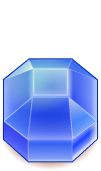
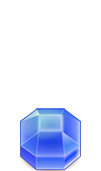
gems resized / small changes on the gui design

diff --git a/src/components/blockly.js b/src/components/blockly.js
@@ -1,4 +1,4 @@
-/* global Blockly */
+/* global Blockly localStorage */
 
 const widget = require('cache-element/widget')
 const html = require('choo/html')
@@ -13,7 +13,7 @@ const prefix = sf`
 `
 
 const blocklyView = widget((update) => {
-  let send, workspace, editorElement
+  let state, send, workspace, editorElement
 
   update(onupdate)
 
@@ -23,7 +23,8 @@ const blocklyView = widget((update) => {
     </div>
   `
 
-  function onupdate (state, prev, _send) {
+  function onupdate (_state, prev, _send) {
+    state = _state
     send = _send
   }
 
@@ -31,6 +32,7 @@ const blocklyView = widget((update) => {
     editorElement = el
     workspace = Blockly.inject(editorElement, { toolbox: toolbox })
 
+    restoreWorkspace(workspace)
     workspace.addChangeListener(updateCode)
   }
 
@@ -38,11 +40,24 @@ const blocklyView = widget((update) => {
     send('updateCode', {
       srcCode: Blockly.JavaScript.workspaceToCode(workspace)
     })
+
+    const xml = Blockly.Xml.workspaceToDom(workspace)
+    const xmlText = Blockly.Xml.domToText(xml)
+    send('updateWorkspace', {
+      workspace: xmlText
+    })
+
+    localStorage.setItem('workspace', xmlText)
   }
 
   function onunload () {
     workspace.removeChangeListener(updateCode)
   }
 })
+
+function restoreWorkspace (workspace) {
+  const xml = Blockly.Xml.textToDom(localStorage.getItem('workspace'))
+  Blockly.Xml.domToWorkspace(xml, workspace)
+}
 
 module.exports = blocklyView

diff --git a/src/components/runtime-controls.js b/src/components/runtime-controls.js
@@ -1,14 +1,35 @@
 const html = require('choo/html')
+const sf = require('sheetify')
+
+const prefix = sf`
+  :host {
+    height: 30px;
+    width: 75px;
+    color: ##404040;
+    background-color: #dddddd;
+    border: none;
+    border-radius: 5%;
+    font-size: 14px;
+    font-family: Helvetica, Arial, Sans-Serif;
+    text-decoration: none;
+    vertical-align: middle;
+  }
+  
+  :host:hover {
+    color: #2b2b2b;
+    background-color: white;
+  }
+`
 
 function runtimeControlsView (state, prev, send) {
   if (state.running) {
     return html`
-      <button disabled>running...</button>
+      <button id="disabled" class=${prefix} disabled>Running...</button>
    `
   }
 
   return html`
-    <button onclick=${() => send('runCode', { })}>run</button>
+    <button id="clickable" class=${prefix} onclick=${() => send('runCode', { })}>► Run</button>
   `
 }
 

diff --git a/lib/toolbox.js b/lib/toolbox.js
@@ -1,16 +1,11 @@
 module.exports = `
   <xml id="toolbox" style="display: none">
-      <category name="Logic">
-        <block type="controls_if"></block>
+      <category name="Logic" colour="120">
         <block type="controls_repeat_ext"></block>
-        <block type="logic_compare"></block>
         <block type="math_number"></block>
-        <block type="math_arithmetic"></block>
-        <block type="text"></block>
-        <block type="text_print"></block>
       </category>
       <sep></sep>
-      <category name="Movement" colour="210">
+      <category name="Movement" colour="240">
         <block type="move"></block>
       </category>
    </xml>

diff --git a/src/reducers.js b/src/reducers.js
@@ -7,14 +7,18 @@ const changeRunningState = ({ running }, state) => {
 }
 
 const updateCode = ({ srcCode }, state) => {
-  console.log('update code')
   return update(state, { srcCode: { $set: srcCode } })
+}
+
+const updateWorkspace = ({ workspace }, state) => {
+  return update(state, {workspace: { $set: workspace }})
 }
 
 module.exports = _.assign({},
   gameApi.actions,
   {
     changeRunningState,
-    updateCode
+    updateCode,
+    updateWorkspace
   }
 )

diff --git a/src/components/main.js b/src/components/main.js
@@ -13,11 +13,11 @@ const mainPrefix = sf`
     }
 
     :host .header-bar {
-      height: 75px;
+      height: 50px;
       display: flex;
       padding: 20px;
       align-items: center;
-      background: #333;
+      background: #404040;
     }
 
     :host .content {
@@ -32,7 +32,7 @@ const contentPrefix = sf`
     }
 
     :host > .divider {
-      background: grey;
+      background: #404040;
       width: 10px;
       height: 100%;
     }

diff --git a/src/model.js b/src/model.js
@@ -45,6 +45,7 @@ const initialState = {
   robot: { x: 0, y: 0 },
   running: false,
   srcCode: '',
+  workspace: '',
   game: gameState
 }
 
